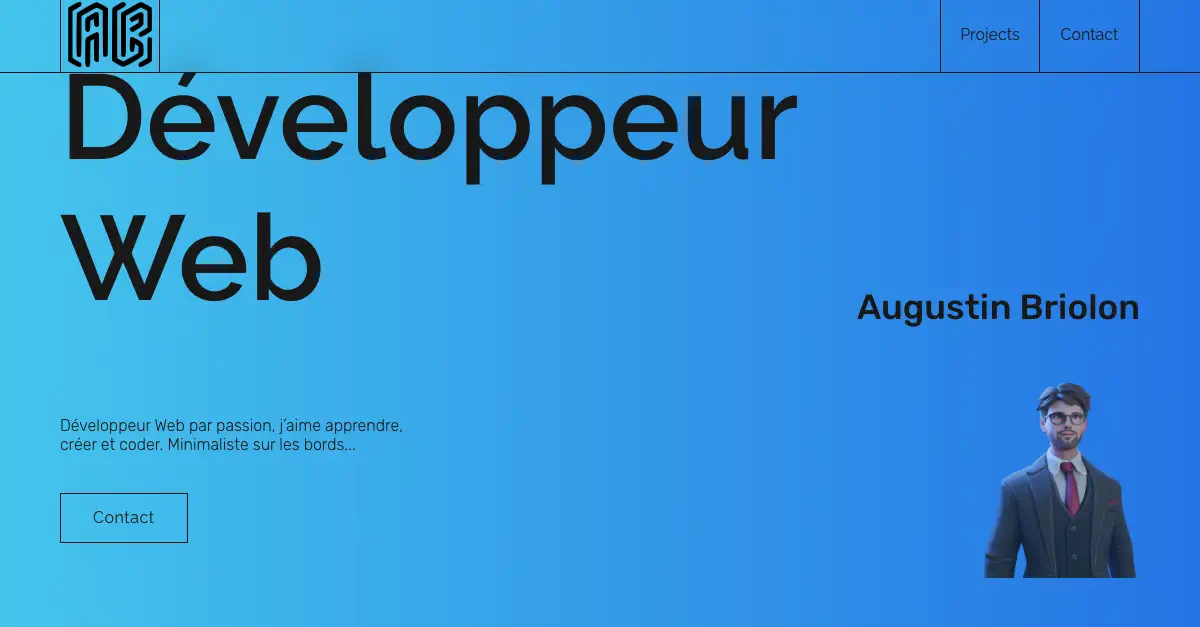
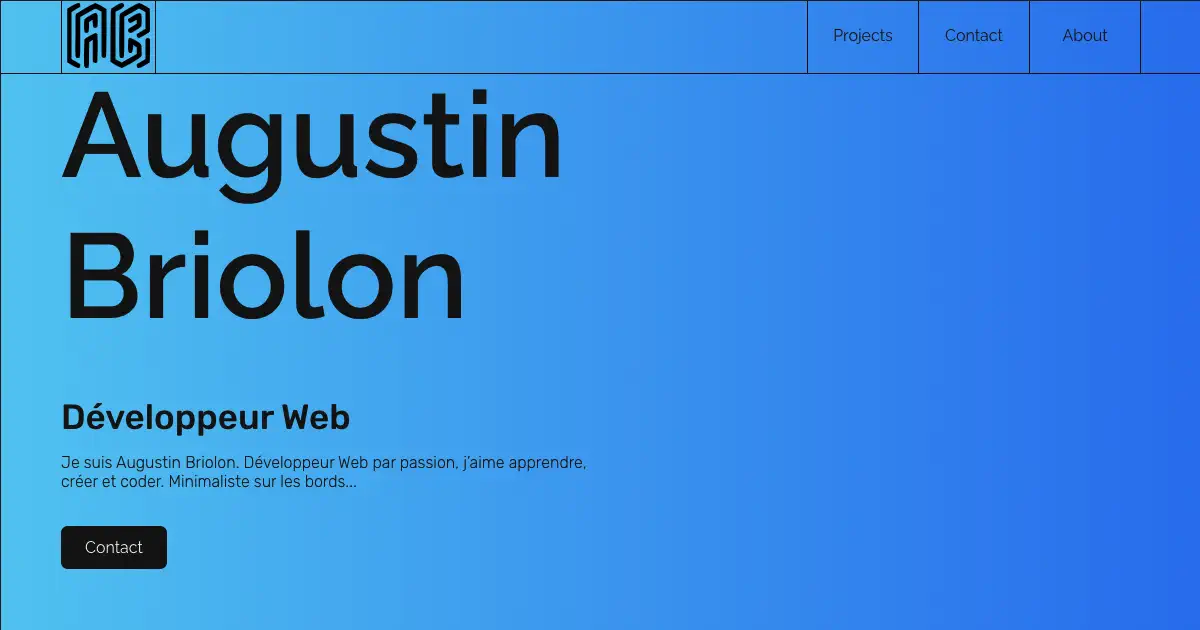
:mag: seo improve

diff --git a/public/index.html b/public/index.html
@@ -8,10 +8,12 @@
   <meta name="msapplication-TileColor" content="#191919">
 
   <!-- Seo Meta Tag -->
-  <meta name="description" content="Portfolio de Augustin Briolon &#x1F468;&#x200D;&#x1F4BB; un Développeur Web Front-End &#x2728; depuis maintenant 3 ans. Sensible au design, j'ai hate de travailler avec vous. Mon dicton : Apprendre tous les jours &#x1F680;" />
-  <meta name="title" content="Augustin Briolon &#x1F468;&#x200D;&#x1F4BB; | Portfolio Développeur Web Front-End &#x1f4ab;">
+  <meta name="description"
+    content="Portfolio de Augustin Briolon &#x1F468;&#x200D;&#x1F4BB; Développeur Web Front-End &#x1f4ab; depuis maintenant 3 ans. Sensible au design, j'ai hate de travailler avec vous. Mon dicton : Apprendre tous les jours &#x1F680;" />
+  <meta name="title"
+    content="Augustin Briolon &#x1F468;&#x200D;&#x1F4BB; | Portfolio Développeur Web Front-End &#x1f4ab;">
   <meta name="google-site-verification" content="CxpvlZnJ5DkFfRyb7MlFaMQiUTHFSMtsnfuy9abD0yM" />
-  <meta name="format-detection" content="telephone=no"/>
+  <meta name="format-detection" content="telephone=no" />
   <meta name="referrer" content="origin">
   <link rel="manifest" href="%PUBLIC_URL%/manifest.json" />
 
@@ -22,33 +24,34 @@
   <link rel="manifest" href="%PUBLIC_URL%/favicon/site.webmanifest">
   <link rel="mask-icon" href="%PUBLIC_URL%/favicon/safari-pinned-tab.svg" color="#5bbad5">
 
-    <!-- Google Font -->
-    <link rel="preconnect" href="https://fonts.googleapis.com">
-    <link rel="preconnect" href="https://fonts.gstatic.com" crossorigin>
-    <link href="https://fonts.googleapis.com/css2?family=Raleway:wght@400;600&family=Rubik:wght@300;500&display=swap"
-      rel="stylesheet">
+  <!-- Google Font -->
+  <link rel="preconnect" href="https://fonts.googleapis.com">
+  <link rel="preconnect" href="https://fonts.gstatic.com" crossorigin>
+  <link href="https://fonts.googleapis.com/css2?family=Raleway:wght@400;600&family=Rubik:wght@300;500&display=swap"
+    rel="stylesheet">
 
   <!-- Open Graph -->
-  <meta property="og:title" content="Augustin Briolon &#x1F468;&#x200D;&#x1F4BB; | Portfolio Développeur Web Front-End &#x1f4ab;">
+  <meta property="og:title"
+    content="Augustin Briolon &#x1F468;&#x200D;&#x1F4BB; | Portfolio Développeur Web Front-End &#x1f4ab;">
   <meta property="og:description"
-    content="Portfolio de Augustin Briolon &#x1F468;&#x200D;&#x1F4BB; un Développeur Web Front-End &#x2728; depuis maintenant 3 ans. Sensible au design, j'ai hate de travailler avec vous. Mon dicton : Apprendre tous les jours &#x1F680;">
+    content="Portfolio de Augustin Briolon &#x1F468;&#x200D;&#x1F4BB; Développeur Web Front-End &#x1f4ab; depuis maintenant 3 ans. Sensible au design, j'ai hate de travailler avec vous. Mon dicton : Apprendre tous les jours &#x1F680;">
   <meta property="og:url" content="https://august1.dev">
-  <meta property="og:site_name" content="Augustin Briolon &#x1F468;&#x200D;&#x1F4BB; | Développeur Web Front-End &#x2728;" />
+  <meta property="og:site_name"
+    content="Augustin Briolon &#x1F468;&#x200D;&#x1F4BB; | Développeur Web Front-End &#x1f4ab;" />
   <meta property="og:type" content="website" />
   <meta property="og:locale" content="fr_FR" />
-  <meta property="og:image"
-    content="%PUBLIC_URL%/img/og-img.webp">
+  <meta property="og:image" content="%PUBLIC_URL%/img/og-img.webp">
 
   <!-- Twitter -->
   <meta property="twitter:card" content="summary_large_image">
   <meta property="twitter:url" content="https://august1.dev">
   <meta name="twitter:creator" content="@AugustinBriolon" />
   <meta name="twitter:site" content="@AugustinBriolon" />
-  <meta property="twitter:title" content="Augustin Briolon &#x1F468;&#x200D;&#x1F4BB; | Portfolio  Développeur Web Front-End &#x1f4ab;">
+  <meta property="twitter:title"
+    content="Augustin Briolon &#x1F468;&#x200D;&#x1F4BB; | Portfolio  Développeur Web Front-End &#x1f4ab;">
   <meta property="twitter:description"
-    content="Portfolio de Augustin Briolon &#x1F468;&#x200D;&#x1F4BB; un Développeur Web Front-End &#x2728; depuis maintenant 3 ans. Sensible au design, j'ai hate de travailler avec vous. Mon dicton : Apprendre tous les jours &#x1F680;">
-  <meta property="twitter:image"
-    content="%PUBLIC_URL%/img/og-img.webp">
+    content="Portfolio de Augustin Briolon &#x1F468;&#x200D;&#x1F4BB; Développeur Web Front-End &#x1f4ab; depuis maintenant 3 ans. Sensible au design, j'ai hate de travailler avec vous. Mon dicton : Apprendre tous les jours &#x1F680;">
+  <meta property="twitter:image" content="%PUBLIC_URL%/img/og-img.webp">
 
   <!-- Canonical -->
   <link rel="canonical" href="https://august1.dev" />

diff --git a/src/components/Projects/Projects.js b/src/components/Projects/Projects.js
@@ -74,7 +74,7 @@ export default function Projects() {
           <div className="projectTxt">
             <h3>Semicolon</h3>
             <hr />
-            <p>Projet d'école visant à sensibiliser sur les problématiques étudiantes. Nous avons réalisé ce site avec Gsap</p>
+            <p>Projet d'école visant à sensibiliser sur les problématiques étudiantes. Nous avons utilisé la librairie Gsap pour ce site.</p>
 
             <div className='projectLink'>
               <a href="https://semicolon.vercel.app/index.html" target="_blank" rel="noreferrer">Voir le projet</a>
@@ -84,23 +84,6 @@ export default function Projects() {
           </div>
           <div className="projectImg">
             <a href="https://semicolon.vercel.app/index.html" target="_blank" rel="noreferrer"><img src={semicolon} alt="Lien vers Semicolon Home Page" /></a>
-          </div>
-        </div>
-
-        <div className="project project3">
-          <div className="projectTxt">
-            <h3>raredream</h3>
-            <hr />
-            <p>Inspiré d’une maquette, ce site n’est que vitrine. Vous ne pourrez rien acheté...</p>
-
-            <div className='projectLink'>
-              <a href="https://raredream.august1.dev/" target="_blank" rel="noreferrer">Voir le projet</a>
-              <img src={arrow} alt="logo arrow" className='arrow' />
-            </div>
-
-          </div>
-          <div className="projectImg">
-            <a href="https://raredream.august1.dev/" target="_blank" rel="noreferrer"><img src={raredream} alt="Lien vers Raredream Home Page" /></a>
           </div>
         </div>
 

diff --git a/src/components/Nav/Nav.js b/src/components/Nav/Nav.js
@@ -13,7 +13,7 @@ export default function Nav() {
     <>
       <nav className={`${showLinks ? "showNav" : "hidden"} navbar`}>
         <div className="navBox">
-          <Link to="/" className='logoAB' aria-label="Logo Principal AB">
+          <Link to="/" className='logoAB' aria-label="Logo Principal AB" title="HomePage">
             <svg version="1.0" xmlns="http://www.w3.org/2000/svg" width="100%" height="65" viewBox="0 0 200.000000 156.000000" preserveAspectRatio="xMidYMid meet">
               <g transform="translate(0.000000,156.000000) scale(0.100000,-0.100000)" fill="#000000" stroke="none">
                 <path d="M120 1492 l-115 -67 0 -645 0 -645 115 -67 c148 -87 200 -90 200 -12

diff --git a/src/scss/layout/_header.scss b/src/scss/layout/_header.scss
@@ -1,6 +1,7 @@
 .header {
   padding-top: 80px;
   height: 100vh;
+  min-height: 600px;
   display: flex;
   flex-direction: column;
   justify-content: center;
@@ -64,25 +65,9 @@
     margin-top: 50px;
     text-align: left;
 
-    .text {
-      height: 100%;
-      display: flex;
-      justify-content: space-evenly;
+    p {
+      margin: 15px 0 35px 0;
     }
 
-    .imgMe {
-      max-height: 40vh;
-      width: auto;
-
-      @include media-min(768px) {
-        display: none;
-      }
-
-      img {
-        height: clamp(200px, 25vh, 350px);
-        width: auto;
-        opacity: 0.8;
-      }
-    }
   }
 }

diff --git a/src/components/Footer/Footer.js b/src/components/Footer/Footer.js
@@ -21,7 +21,7 @@ export default function Footer() {
 
         </a>
 
-        <a href="https://www.linkedin.com/in/augustin-briolon-16831a1bb/" target="_blank" rel="noreferrer" className='logoLinkedIn' aria-label="Image logo LinkedIn">
+        <a href="https://www.linkedin.com/in/augustin-briolon/" target="_blank" rel="noreferrer" className='logoLinkedIn' aria-label="Image logo LinkedIn">
 
           <UseAnimations animation={linkedin} size={40} strokeColor={'#191919'} fillColor={'#191919'} autoplay={true} loop={true} />
 
